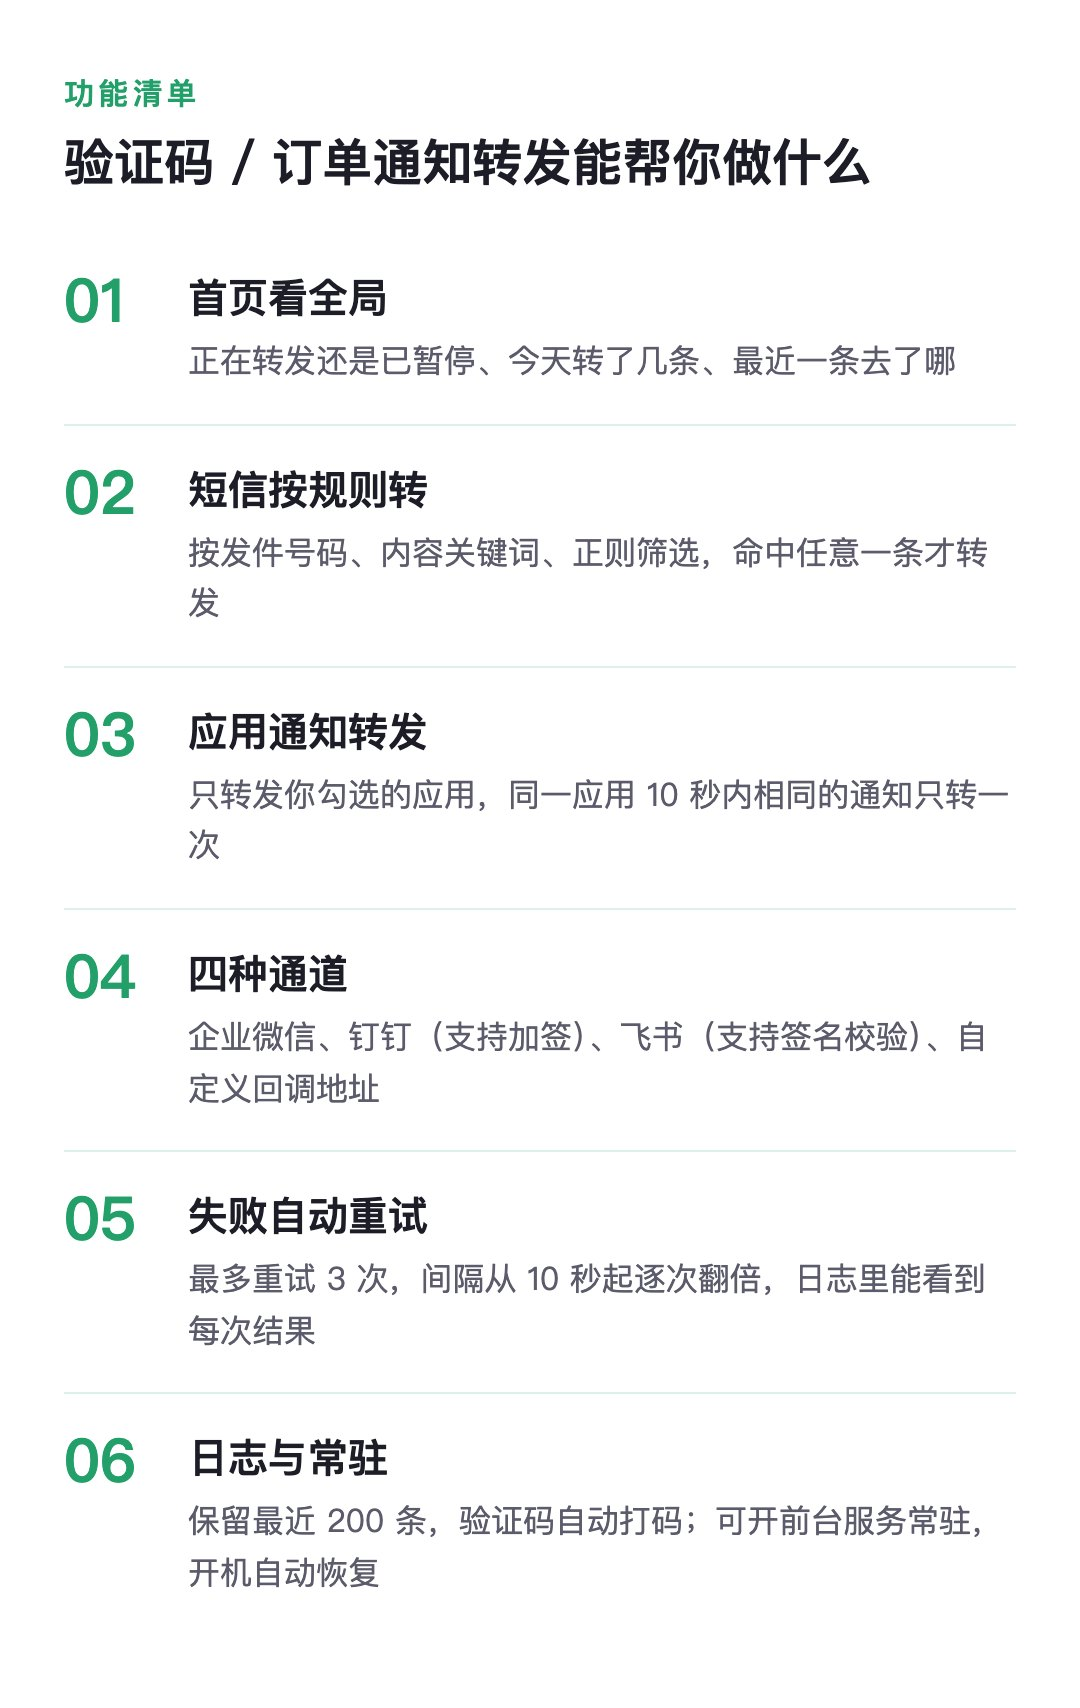
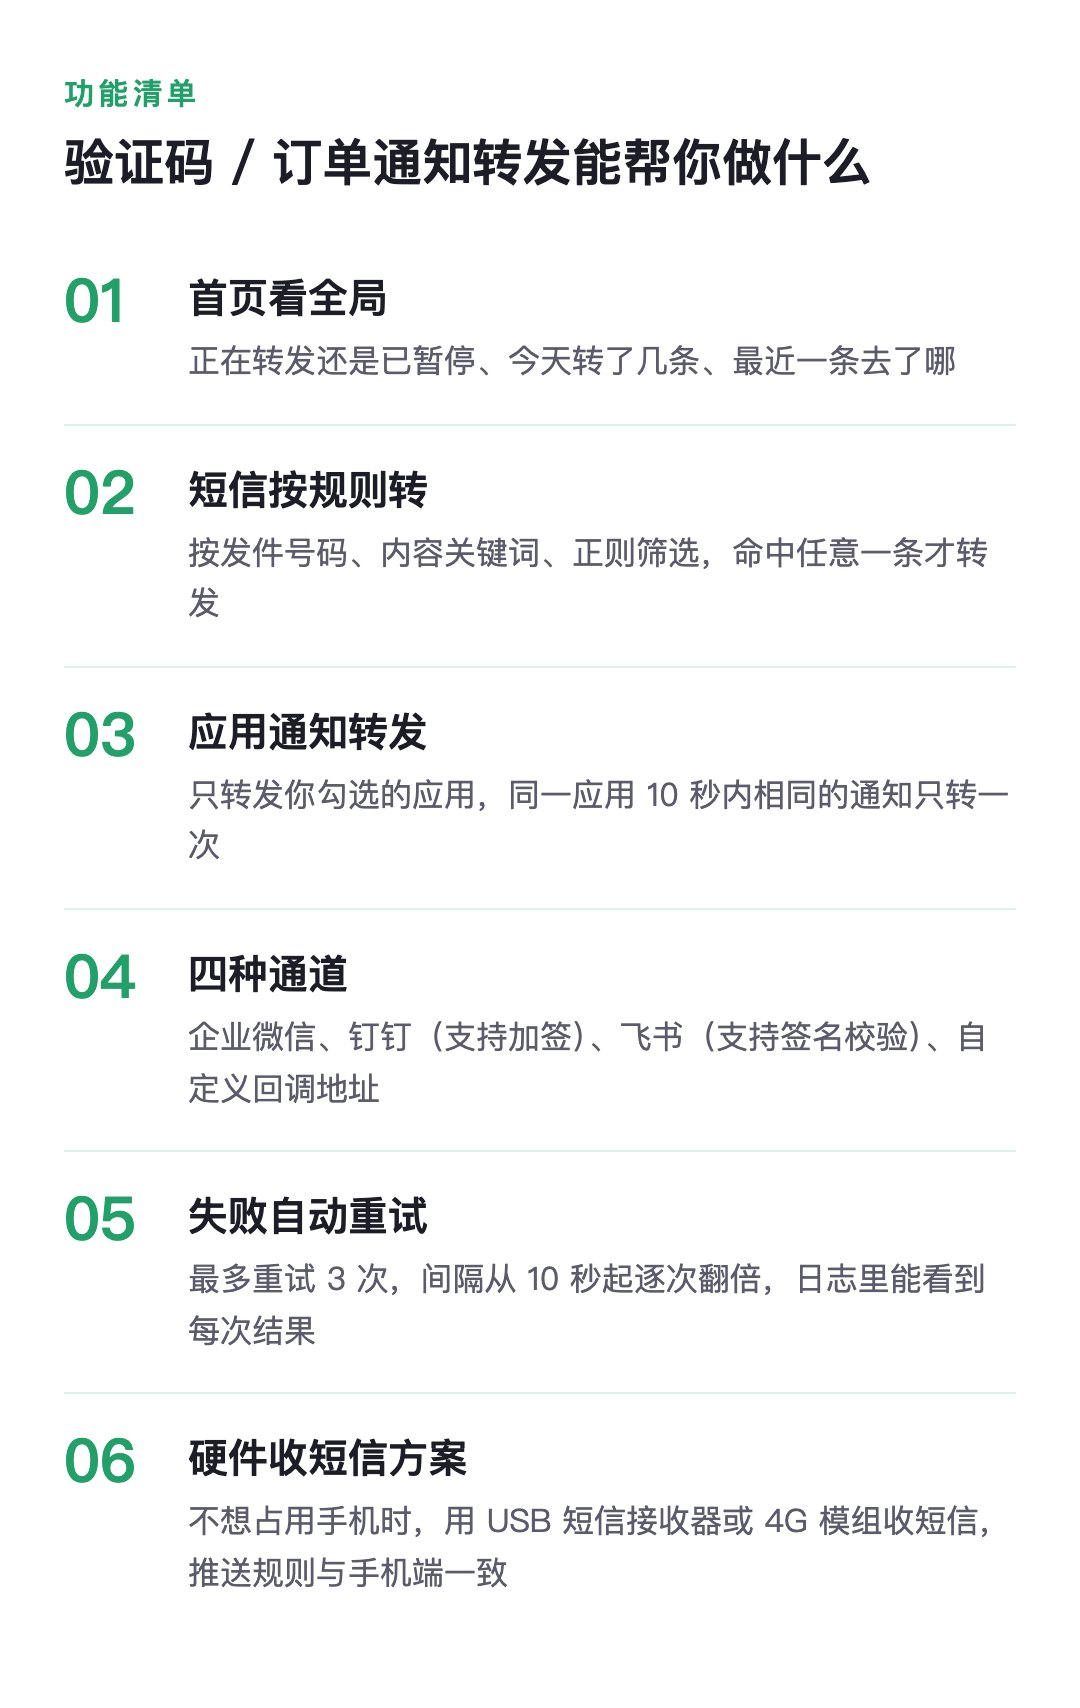
w16 0.3.0 并入硬件收短信并上架更新，个人应用重构收尾

Changed region(s): [[0.1528, 0.8378, 0.9167, 0.9309]]

diff --git a/README.md b/README.md
@@ -67,13 +67,13 @@
 | w13 | 聊天截图转客户档案 | 截图 OCR 后抽取需求、预算、意向 | [chat-screenshot-to-crm](https://github.com/campfire-code/chat-screenshot-to-crm) | 从零写 | 低 | 已发布 | [下载](https://github.com/campfire-code/chat-screenshot-to-crm/releases/tag/v0.2.0) |
 | w14 | 群欢迎语 / 群公告模板 | 模板编辑，输出标准文本 | [group-welcome-templates](https://github.com/campfire-code/script-quick-reply) | 从零写 | 低 | 已并入其他工具 | [下载](https://github.com/campfire-code/script-quick-reply/releases/tag/v0.2.0) |
 | w15 | 订单 / 库存告警推到微信 | 读库存表和订单表，异常时推到企微 / 钉钉 / 飞书群 | [wechat-alert-push](https://github.com/campfire-code/wechat-alert-push) | [easychen/wecomchan](https://github.com/easychen/wecomchan) · MIT | 低 | 已发布 | [下载](https://github.com/campfire-code/wechat-alert-push/releases/tag/v0.2.0) |
-| w16 | 验证码 / 订单通知转发 | 手机短信和通知转发到企微、钉钉 | [sms-notify-forwarder](https://github.com/campfire-code/sms-notify-forwarder) | 从零写 | 中 | 已发布 | [下载](https://github.com/campfire-code/sms-notify-forwarder/releases/tag/v0.2.0) |
+| w16 | 验证码 / 订单通知转发 | 手机短信和通知转发到企微、钉钉 | [sms-notify-forwarder](https://github.com/campfire-code/sms-notify-forwarder) | 从零写 | 中 | 已发布 | [下载](https://github.com/campfire-code/sms-notify-forwarder/releases/tag/v0.3.0) |
 | w17 | 群机器人调试器 | 钉钉、飞书、企微机器人消息统一调试 | [bot-webhook-debugger](https://github.com/campfire-code/bot-webhook-debugger) | 从零写 | 低 | 已发布 | [下载](https://github.com/campfire-code/bot-webhook-debugger/releases/tag/v0.2.0) |
 | w18 | 小程序订阅消息调试 | 批量配置和测试订阅消息模板 | [mp-subscribe-msg-tester](https://github.com/campfire-code/mp-subscribe-msg-tester) | 从零写 | 低 | 已发布 | [下载](https://github.com/campfire-code/mp-subscribe-msg-tester/releases/tag/v0.2.0) |
 | w19 | 视频号直播话术生成 | 按商品生成直播讲解稿和互动话术 | [live-script-writer](https://github.com/campfire-code/live-script-writer) | 从零写 | 低 | 已发布 | [下载](https://github.com/campfire-code/live-script-writer/releases/tag/v0.2.0) |
 | w20 | 手机备份聊天导出（本人数据） | 把自己 iPhone 备份里的微信聊天记录，导出成 HTML、PDF 或文本 | [wechat-backup-exporter](https://github.com/campfire-code/wechat-backup-exporter) | [BlueMatthew/WechatExporter](https://github.com/BlueMatthew/WechatExporter) · GPL-2.0 | 中 | 已发布 | [下载](https://github.com/campfire-code/wechat-backup-exporter/releases/tag/v1.9.5.13-campfire.1) |
 | w25 | 批量加好友 / 群发（仅开源） | 微信 4.0 界面自动化 | [wechat-bulk-rpa](https://github.com/campfire-code/wechat-bulk-rpa) | [Hello-Mr-Crab/pywechat](https://github.com/Hello-Mr-Crab/pywechat) · LGPL-2.1 | 高 | 已发布 | [下载](https://github.com/campfire-code/wechat-bulk-rpa/releases/tag/v1.9.8-campfire.1) |
-| w26 | 企微群管家（安卓）（仅开源） | 安卓无障碍控制企微做群管理 | [wecom-group-manager-android](https://github.com/campfire-code/wecom-group-manager-android) | [gallonyin/worktool](https://github.com/gallonyin/worktool) · Apache-2.0 | 高 | 已发布 | [下载](https://github.com/campfire-code/wecom-group-manager-android/releases/tag/v2.8.0-campfire.2) |
+| w26 | 企微群管家（安卓） | 安卓无障碍控制企微做群管理 | [wecom-group-manager-android](https://github.com/campfire-code/wecom-group-manager-android) | [gallonyin/worktool](https://github.com/gallonyin/worktool) · Apache-2.0 | 高 | 已发布 | [下载](https://github.com/campfire-code/wecom-group-manager-android/releases/tag/v2.8.0-campfire.2) |
 | w27 | 视频号视频下载（仅开源） | 下载视频号视频 | [channels-video-downloader](https://github.com/campfire-code/channels-video-downloader) | [nobiyou/wx_channel](https://github.com/nobiyou/wx_channel) · MIT | 高 | 已发布 | [下载](https://github.com/campfire-code/channels-video-downloader/releases/tag/v5.7.13-campfire.1) |
 | w28 | 机器人多账号管理后台 | 多个机器人账号集中管理 | [bot-hub](https://github.com/campfire-code/bot-hub) | [openilink/openilink-hub](https://github.com/openilink/openilink-hub) · MIT | 中 | 已发布 | [下载](https://github.com/campfire-code/bot-hub/releases/tag/v0.1.36-campfire.2) |
 | w29 | 行业答题获客 | 可换题库、可换品牌的手机答题小游戏，答完看段位、领资料、引导加微信 | [quiz-lead-game](https://github.com/campfire-code/quiz-lead-game) | 从零写 | 低 | 已发布 | [下载](https://github.com/campfire-code/quiz-lead-game/releases/tag/v0.1.0) |

diff --git a/catalog/store-listing.md b/catalog/store-listing.md
@@ -110,7 +110,7 @@
 | w12 | [私域话术库快捷回复](https://github.com/campfire-code/script-quick-reply) | 桌面小窗，按场景搜话术一键复制 | 桌面安装包 | 0.3.0 | [看图](https://raw.githubusercontent.com/campfire-code/script-quick-reply/main/docs/screenshot.png) | [macOS Apple 芯片 / macOS Intel / Windows](https://github.com/campfire-code/script-quick-reply/releases/tag/v0.3.0) |  |
 | w13 | [聊天截图转客户档案](https://github.com/campfire-code/chat-screenshot-to-crm) | 截图 OCR 后抽取需求、预算、意向 | 桌面安装包 | 0.2.0 | [看图](https://raw.githubusercontent.com/campfire-code/chat-screenshot-to-crm/main/docs/screenshot.png) | [macOS Apple 芯片 / macOS Intel / Windows](https://github.com/campfire-code/chat-screenshot-to-crm/releases/tag/v0.2.0) |  |
 | w15 | [订单 / 库存告警推到微信](https://github.com/campfire-code/wechat-alert-push) | 读库存表和订单表，异常时推到企微 / 钉钉 / 飞书群 | 桌面安装包 | 0.2.0 | [看图](https://raw.githubusercontent.com/campfire-code/wechat-alert-push/main/docs/screenshot.png) | [macOS Apple 芯片 / macOS Intel / Windows](https://github.com/campfire-code/wechat-alert-push/releases/tag/v0.2.0) |  |
-| w16 | [验证码 / 订单通知转发](https://github.com/campfire-code/sms-notify-forwarder) | 手机短信和通知转发到企微、钉钉 | 安卓 APK | 0.2.0 | [看图](https://raw.githubusercontent.com/campfire-code/sms-notify-forwarder/main/docs/screenshot.png) | [安卓](https://github.com/campfire-code/sms-notify-forwarder/releases/tag/v0.2.0) |  |
+| w16 | [验证码 / 订单通知转发](https://github.com/campfire-code/sms-notify-forwarder) | 手机短信和通知转发到企微、钉钉 | 安卓 APK | 0.3.0 | [看图](https://raw.githubusercontent.com/campfire-code/sms-notify-forwarder/main/docs/screenshot.png) | [安卓](https://github.com/campfire-code/sms-notify-forwarder/releases/tag/v0.3.0) |  |
 | w17 | [群机器人调试器](https://github.com/campfire-code/bot-webhook-debugger) | 钉钉、飞书、企微机器人消息统一调试 | 桌面安装包 | 0.2.0 | [看图](https://raw.githubusercontent.com/campfire-code/bot-webhook-debugger/main/docs/screenshot.png) | [macOS Apple 芯片 / macOS Intel / Windows](https://github.com/campfire-code/bot-webhook-debugger/releases/tag/v0.2.0) |  |
 | w18 | [小程序订阅消息调试](https://github.com/campfire-code/mp-subscribe-msg-tester) | 批量配置和测试订阅消息模板 | 桌面安装包 | 0.2.0 | [看图](https://raw.githubusercontent.com/campfire-code/mp-subscribe-msg-tester/main/docs/screenshot.png) | [macOS Apple 芯片 / macOS Intel / Windows](https://github.com/campfire-code/mp-subscribe-msg-tester/releases/tag/v0.2.0) |  |
 | w19 | [视频号直播话术生成](https://github.com/campfire-code/live-script-writer) | 按商品生成直播讲解稿和互动话术 | 桌面安装包 | 0.2.0 | [看图](https://raw.githubusercontent.com/campfire-code/live-script-writer/main/docs/screenshot.png) | [macOS Apple 芯片 / macOS Intel / Windows](https://github.com/campfire-code/live-script-writer/releases/tag/v0.2.0) |  |

diff --git a/docs/进度交接.md b/docs/进度交接.md
@@ -18,7 +18,7 @@
 - 方案与进度表：`docs/个人应用重构方案.md`（本机，gitignore）；子任务说明 `docs/agent-brief-own.md` + `docs/agent-brief-personal.md`（署名不写参考仓库、Windows 换行用 .gitattributes）。
 - 循环：本会话定时任务每小时 17 / 52 分触发，按进度表派下一批（同时 ≤3 个子任务，额度 ≥80% 停手）。`usage-tap.json` 会被其他会话覆盖成很低的读数，以本会话持续上涨的那条为准。
 - 全部完成：c33 o27 c34 w29 o28 a07 c35 o29 e33 a08 a09 e34 e35 e36 c36 w30 a10 w31 与 e01（1688 拼多多铺货助手，原「等用户提供模板」已解决）发布 0.1.0 并上架；x01 原创航海经商游戏 0.2.0 上架（新分类「休闲游戏」）；w02 升 0.3.0（并入公众号写稿发布与口播转图文）；w26 改为自出包 2.8.0-campfire.2（新增 AI 回复与关键词规则回复，洁净室），仍是 repo-only 未上架。生产在售 117。
-- 待用户：w16 并入「硬件收短信」需确认原作者署名授权；w26 是否上架。
+- w16 0.3.0 并入硬件收短信（用户确认已授权）；w26 用户拍板上架；这批 23 个全部加精。生产在售 118。
 - 应用区录入由本仓库会话直接跑 campfire `scripts/seed-toolkit-apps.mjs`（`ONLY=` / `UPDATE=1`）；资料手册类在 SPECIAL 里有单独的标签与说明。
 
 ## 总体状态
